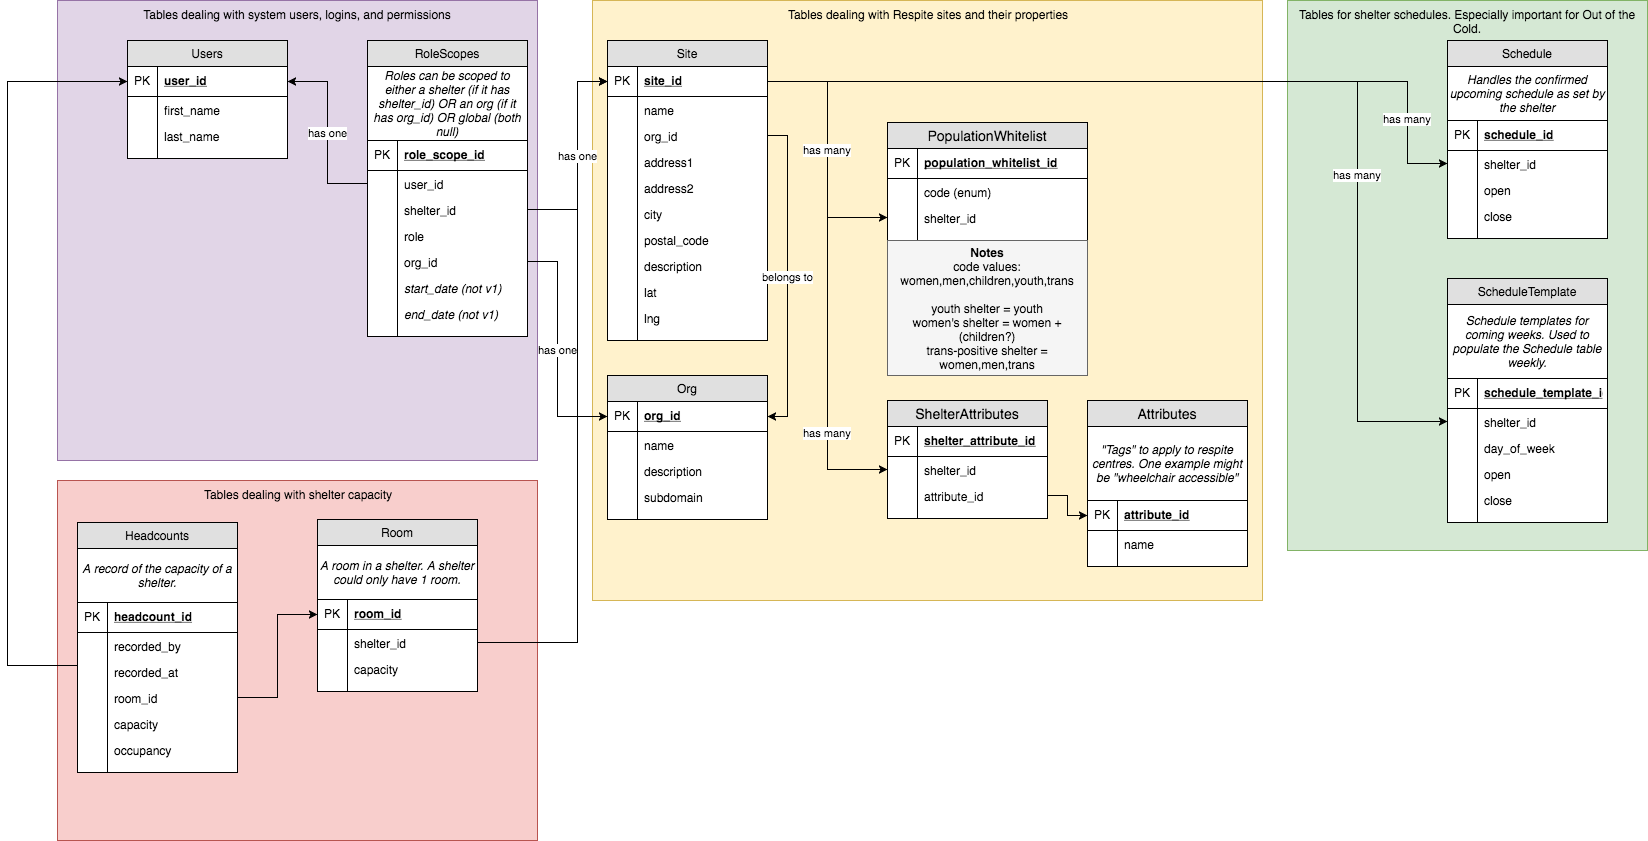
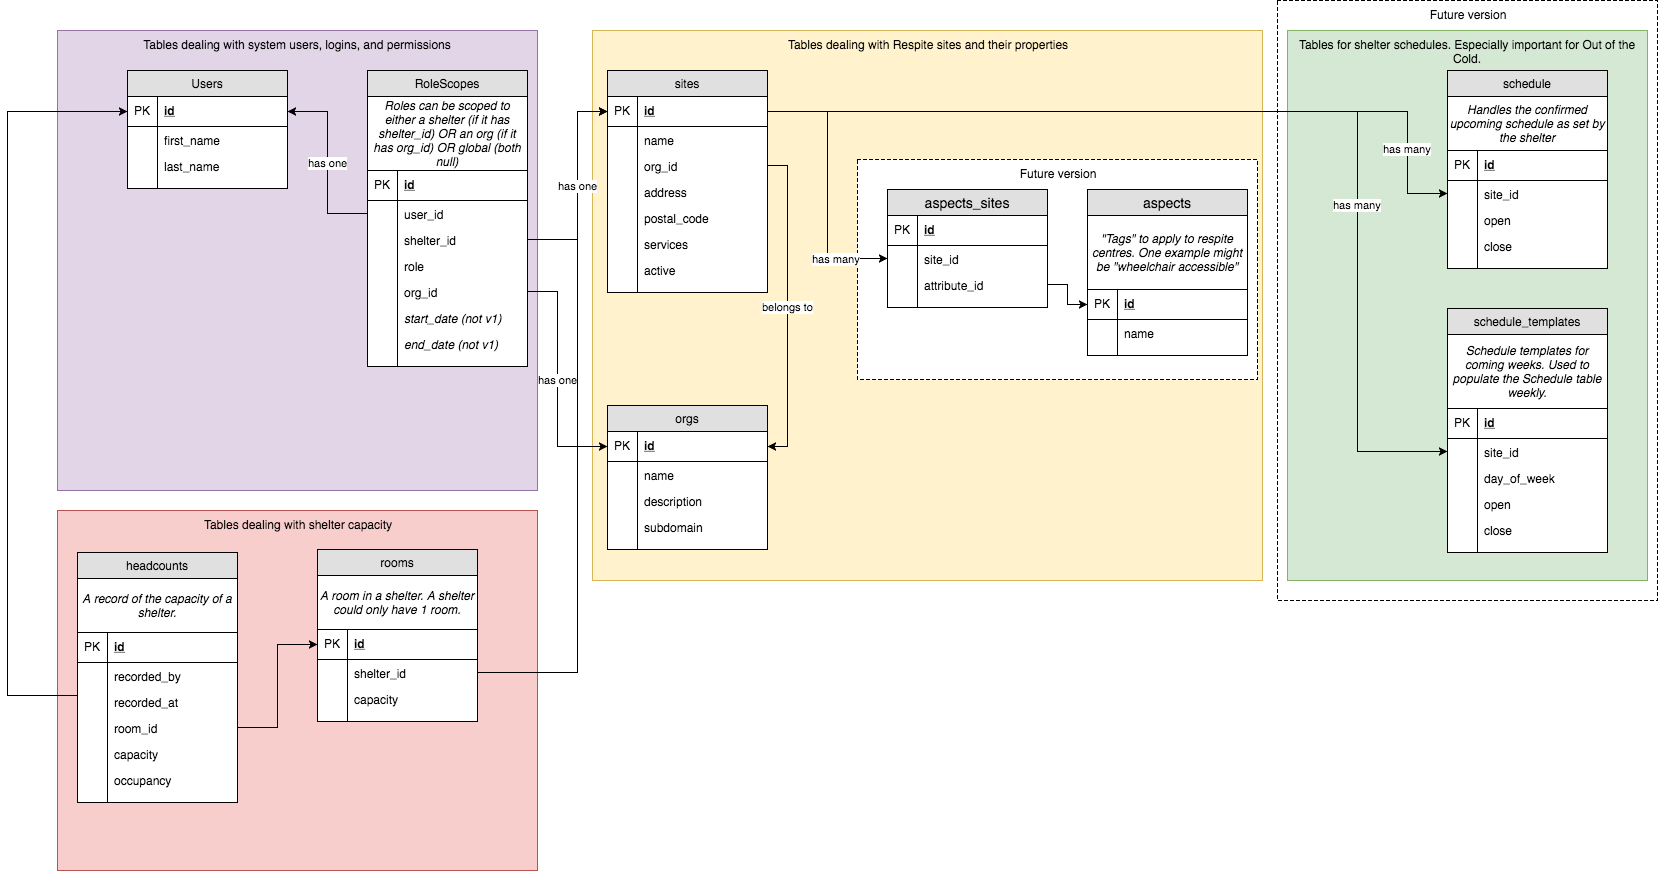
cleanup

Changed region(s): [[0.0309, 0.0, 1.0, 0.9275]]

diff --git a/db/migrate/20180813001604_align_site_to_wireframes.rb b/db/migrate/20180813001604_align_site_to_wireframes.rb
@@ -14,9 +14,6 @@ class AlignSiteToWireframes < ActiveRecord::Migration[5.2]
       t.remove :address2
       t.remove :city
     end
-    change_table :aspects do |t|
-      t.integer "type"
-    end
 
     drop_table :population_whitelists
   end
@@ -34,9 +31,6 @@ class AlignSiteToWireframes < ActiveRecord::Migration[5.2]
       t.string :city
       t.decimal :lat, precision: 10, scale: 6
       t.decimal :lng, precision: 10, scale: 6
-    end
-    change_table :aspects do |t|
-      t.remove :type
     end
 
     create_table :population_whitelists do |t|

diff --git a/db/schema.rb b/db/schema.rb
@@ -16,7 +16,6 @@ ActiveRecord::Schema.define(version: 2018_08_13_001604) do
     t.string "name"
     t.datetime "created_at", null: false
     t.datetime "updated_at", null: false
-    t.integer "type"
   end
 
   create_table "aspects_sites", force: :cascade do |t|

diff --git a/app/controllers/sites_controller.rb b/app/controllers/sites_controller.rb
@@ -47,6 +47,8 @@ class SitesController < ApplicationController
 
   # POST /sites/:id/users
   def add_user
+    # should either accept a net new user object, OR an ID.
+    # Need to do user stuff first
     self.not_implemented
   end
 
